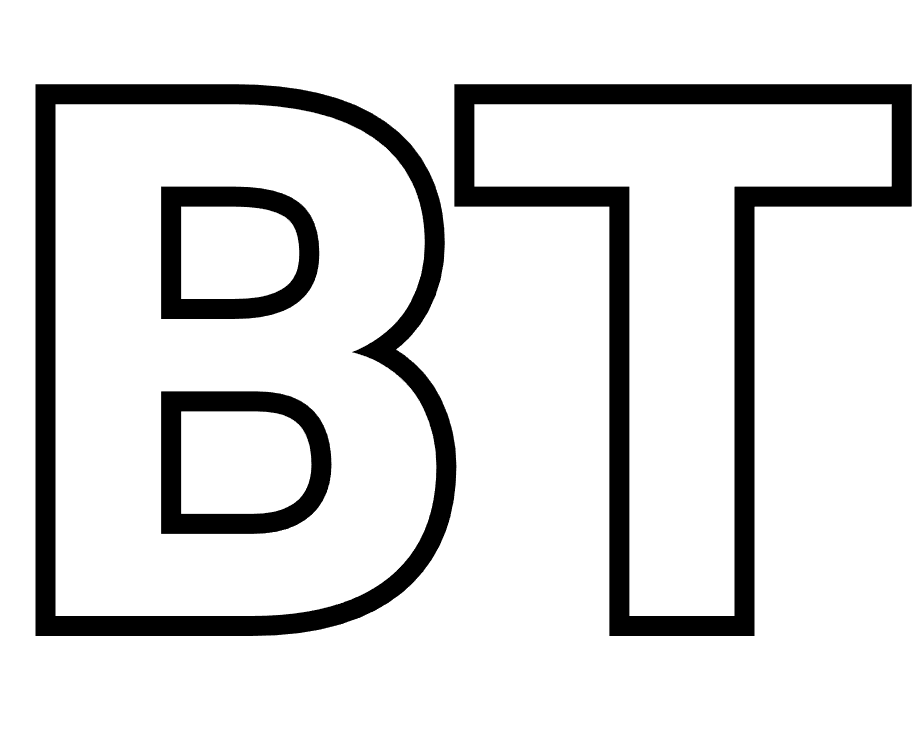
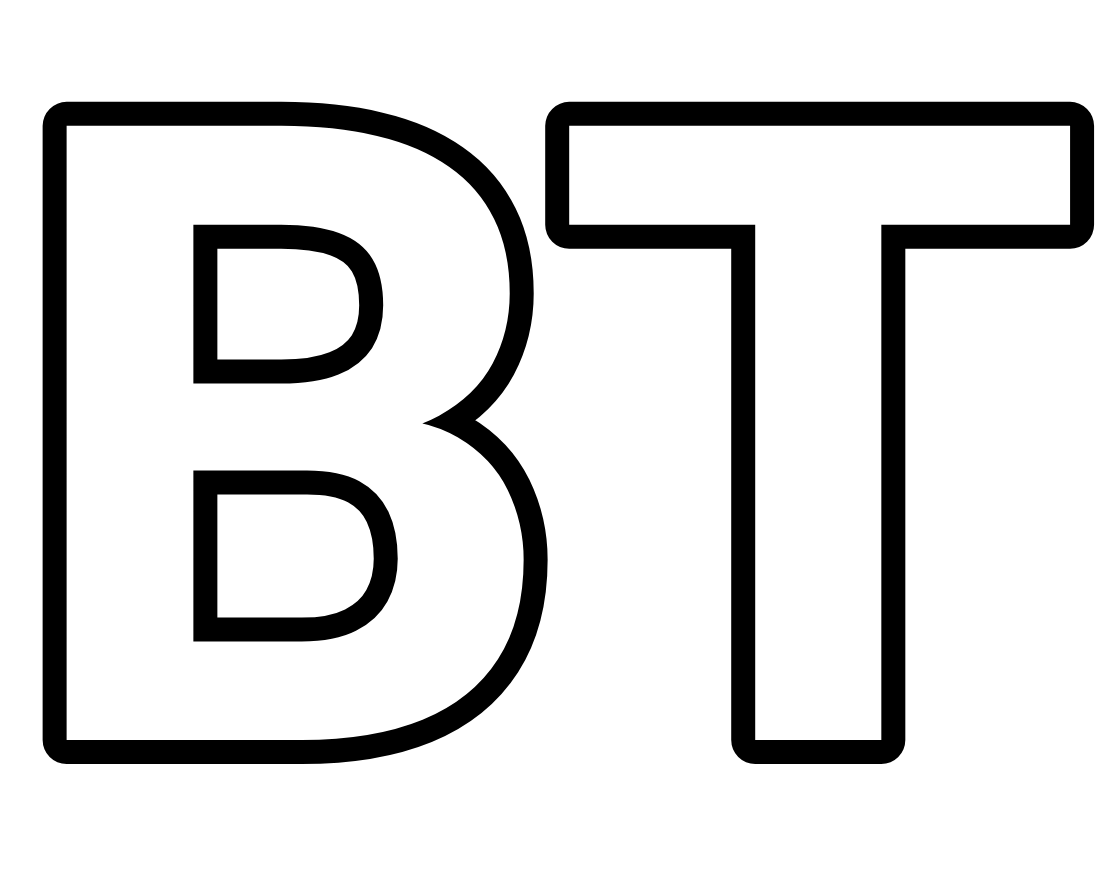
standardize images

diff --git a/src/__util/ImagePaths.ts b/src/__util/ImagePaths.ts
@@ -1,97 +1,96 @@
 import { CharacterNotationImage } from "../__types/commonTypes";
 
 // STANCES
-import aop from "../assets/images/upscaled/stances/aop.webp";
+import aop from "../assets/images/upscaled/stances/aop.png";
 import bad from "../assets/images/upscaled/stances/bad.png";
 import bal from "../assets/images/upscaled/stances/bal.png";
 import bj from "../assets/images/upscaled/stances/bj.png";
-import bkp from "../assets/images/upscaled/stances/bkp.webp";
-import bok from "../assets/images/upscaled/stances/bok.webp";
+import bkp from "../assets/images/upscaled/stances/bkp.png";
+import bok from "../assets/images/upscaled/stances/bok.png";
 import bt from "../assets/images/upscaled/stances/bt.png";
-import bt_old from "../assets/images/upscaled/stances/bt_old.webp";
 import cat from "../assets/images/upscaled/stances/cat.png";
-import cd from "../assets/images/upscaled/stances/cd.webp";
+import cd from "../assets/images/upscaled/stances/cd.png";
 import cjm from "../assets/images/upscaled/stances/cjm.png";
-import dbt from "../assets/images/upscaled/stances/dbt.webp";
-import dck from "../assets/images/upscaled/stances/dck.webp";
-import den from "../assets/images/upscaled/stances/den.webp";
-import des from "../assets/images/upscaled/stances/des.webp";
-import dew from "../assets/images/upscaled/stances/dew.webp";
-import dgf from "../assets/images/upscaled/stances/dgf.webp";
-import dpd from "../assets/images/upscaled/stances/dpd.webp";
-import dss from "../assets/images/upscaled/stances/dss.webp";
-import ext_dck from "../assets/images/upscaled/stances/ext_dck.webp";
-import flea from "../assets/images/upscaled/stances/flea.webp";
-import flk from "../assets/images/upscaled/stances/flk.webp";
-import fly from "../assets/images/upscaled/stances/fly.webp";
+import dbt from "../assets/images/upscaled/stances/dbt.png";
+import dck from "../assets/images/upscaled/stances/dck.png";
+import den from "../assets/images/upscaled/stances/den.png";
+import des from "../assets/images/upscaled/stances/des.png";
+import dew from "../assets/images/upscaled/stances/dew.png";
+import dgf from "../assets/images/upscaled/stances/dgf.png";
+import dpd from "../assets/images/upscaled/stances/dpd.png";
+import dss from "../assets/images/upscaled/stances/dss.png";
+import ext_dck from "../assets/images/upscaled/stances/ext_dck.png";
+import flea from "../assets/images/upscaled/stances/flea.png";
+import flk from "../assets/images/upscaled/stances/flk.png";
+import fly from "../assets/images/upscaled/stances/fly.png";
 import fuj from "../assets/images/upscaled/stances/fuj.png";
 import gar from "../assets/images/upscaled/stances/gar.png";
-import gen from "../assets/images/upscaled/stances/gen.webp";
-import gmc from "../assets/images/upscaled/stances/gmc.webp";
-import gmh from "../assets/images/upscaled/stances/gmh.webp";
-import gs from "../assets/images/upscaled/stances/gs.webp";
+import gen from "../assets/images/upscaled/stances/gen.png";
+import gmc from "../assets/images/upscaled/stances/gmc.png";
+import gmh from "../assets/images/upscaled/stances/gmh.png";
+import gs from "../assets/images/upscaled/stances/gs.png";
 import hae from "../assets/images/upscaled/stances/hae.png";
-import hbs from "../assets/images/upscaled/stances/hbs.webp";
+import hbs from "../assets/images/upscaled/stances/hbs.png";
 import hmc from "../assets/images/upscaled/stances/hmc.png";
-import hms from "../assets/images/upscaled/stances/hms.webp";
-import hrm from "../assets/images/upscaled/stances/hrm.webp";
+import hms from "../assets/images/upscaled/stances/hms.png";
+import hrm from "../assets/images/upscaled/stances/hrm.png";
 import hrs from "../assets/images/upscaled/stances/hrs.png";
-import hsp from "../assets/images/upscaled/stances/hsp.webp";
-import hyp from "../assets/images/upscaled/stances/hyp.webp";
-import iai from "../assets/images/upscaled/stances/iai.webp";
-import ind from "../assets/images/upscaled/stances/ind.webp";
-import isw from "../assets/images/upscaled/stances/isw.webp";
-import izu from "../assets/images/upscaled/stances/izu.webp";
-import jag from "../assets/images/upscaled/stances/jag.webp";
-import jgs from "../assets/images/upscaled/stances/jgs.webp";
+import hsp from "../assets/images/upscaled/stances/hsp.png";
+import hyp from "../assets/images/upscaled/stances/hyp.png";
+import iai from "../assets/images/upscaled/stances/iai.png";
+import ind from "../assets/images/upscaled/stances/ind.png";
+import isw from "../assets/images/upscaled/stances/isw.png";
+import izu from "../assets/images/upscaled/stances/izu.png";
+import jag from "../assets/images/upscaled/stances/jag.png";
+import jgs from "../assets/images/upscaled/stances/jgs.png";
 import kat from "../assets/images/upscaled/stances/kat.png";
-import kin from "../assets/images/upscaled/stances/kin.webp";
+import kin from "../assets/images/upscaled/stances/kin.png";
 import kmh from "../assets/images/upscaled/stances/kmh.png";
-import knk from "../assets/images/upscaled/stances/knk.webp";
-import len from "../assets/images/upscaled/stances/len.webp";
-import lff from "../assets/images/upscaled/stances/lff.webp";
-import lfs from "../assets/images/upscaled/stances/lfs.webp";
-import lib from "../assets/images/upscaled/stances/lib.webp";
-import lnh from "../assets/images/upscaled/stances/lnh.webp";
-import mcr from "../assets/images/upscaled/stances/mcr.webp";
-import med from "../assets/images/upscaled/stances/med.webp";
-import mia from "../assets/images/upscaled/stances/mia.webp";
+import knk from "../assets/images/upscaled/stances/knk.png";
+import len from "../assets/images/upscaled/stances/len.png";
+import lff from "../assets/images/upscaled/stances/lff.png";
+import lfs from "../assets/images/upscaled/stances/lfs.png";
+import lib from "../assets/images/upscaled/stances/lib.png";
+import lnh from "../assets/images/upscaled/stances/lnh.png";
+import mcr from "../assets/images/upscaled/stances/mcr.png";
+import med from "../assets/images/upscaled/stances/med.png";
+import mia from "../assets/images/upscaled/stances/mia.png";
 import mmo from "../assets/images/upscaled/stances/mmo.png";
-import mnt from "../assets/images/upscaled/stances/mnt.webp";
-import nss from "../assets/images/upscaled/stances/nss.webp";
-import nwg from "../assets/images/upscaled/stances/nwg.webp";
-import pab from "../assets/images/upscaled/stances/pab.webp";
+import mnt from "../assets/images/upscaled/stances/mnt.png";
+import nss from "../assets/images/upscaled/stances/nss.png";
+import nwg from "../assets/images/upscaled/stances/nwg.png";
+import pab from "../assets/images/upscaled/stances/pab.png";
 import phx from "../assets/images/upscaled/stances/phx.png";
 import plt from "../assets/images/upscaled/stances/plt.png";
-import prf from "../assets/images/upscaled/stances/prf.webp";
-import rab from "../assets/images/upscaled/stances/rab.webp";
+import prf from "../assets/images/upscaled/stances/prf.png";
+import rab from "../assets/images/upscaled/stances/rab.png";
 import rai from "../assets/images/upscaled/stances/rai.png";
 import ram from "../assets/images/upscaled/stances/ram.png";
-import rds from "../assets/images/upscaled/stances/rds.webp";
-import rff from "../assets/images/upscaled/stances/rff.webp";
-import rfs from "../assets/images/upscaled/stances/rfs.webp";
-import rlx from "../assets/images/upscaled/stances/rlx.webp";
-import roll from "../assets/images/upscaled/stances/roll.webp";
-import sbt from "../assets/images/upscaled/stances/sbt.webp";
-import scr from "../assets/images/upscaled/stances/scr.webp";
-import sen from "../assets/images/upscaled/stances/sen.webp";
+import rds from "../assets/images/upscaled/stances/rds.png";
+import rff from "../assets/images/upscaled/stances/rff.png";
+import rfs from "../assets/images/upscaled/stances/rfs.png";
+import rlx from "../assets/images/upscaled/stances/rlx.png";
+import rol from "../assets/images/upscaled/stances/rol.png";
+import sbt from "../assets/images/upscaled/stances/sbt.png";
+import scr from "../assets/images/upscaled/stances/scr.png";
+import sen from "../assets/images/upscaled/stances/sen.png";
 import set from "../assets/images/upscaled/stances/set.png";
-import sit from "../assets/images/upscaled/stances/sit.webp";
-import sne from "../assets/images/upscaled/stances/sne.webp";
-import snk from "../assets/images/upscaled/stances/snk.webp";
-import stb from "../assets/images/upscaled/stances/stb.webp";
-import stc from "../assets/images/upscaled/stances/stc.webp";
-import swa from "../assets/images/upscaled/stances/swa.webp";
-import swy from "../assets/images/upscaled/stances/swy.webp";
-import szn from "../assets/images/upscaled/stances/szn.webp";
+import sit from "../assets/images/upscaled/stances/sit.png";
+import sne from "../assets/images/upscaled/stances/sne.png";
+import snk from "../assets/images/upscaled/stances/snk.png";
+import stb from "../assets/images/upscaled/stances/stb.png";
+import stc from "../assets/images/upscaled/stances/stc.png";
+import swa from "../assets/images/upscaled/stances/swa.png";
+import swy from "../assets/images/upscaled/stances/swy.png";
+import szn from "../assets/images/upscaled/stances/szn.png";
 import tgk from "../assets/images/upscaled/stances/tgk.png";
-import trt from "../assets/images/upscaled/stances/trt.webp";
-import uns from "../assets/images/upscaled/stances/uns.webp";
+import trt from "../assets/images/upscaled/stances/trt.png";
+import uns from "../assets/images/upscaled/stances/uns.png";
 import wgk from "../assets/images/upscaled/stances/wgk.png";
 import wlf from "../assets/images/upscaled/stances/wlf.png";
 import wol from "../assets/images/upscaled/stances/wol.png";
-import wra from "../assets/images/upscaled/stances/wra.webp";
-import zen from "../assets/images/upscaled/stances/zen.webp";
+import wra from "../assets/images/upscaled/stances/wra.png";
+import zen from "../assets/images/upscaled/stances/zen.png";
 
 export const CharacterSpecificImagePaths: CharacterNotationImage = {
   alisa: {
@@ -149,7 +148,7 @@ export const CharacterSpecificImagePaths: CharacterNotationImage = {
     },
     bt: {
       text: "BT",
-      src: bt_old,
+      src: bt,
     },
   },
   bob: {
@@ -251,7 +250,7 @@ export const CharacterSpecificImagePaths: CharacterNotationImage = {
     },
     bt: {
       text: "BT",
-      src: bt_old,
+      src: bt,
     },
   },
   heihachi: {
@@ -361,9 +360,9 @@ export const CharacterSpecificImagePaths: CharacterNotationImage = {
       text: "SIT",
       src: sit,
     },
-    roll: {
-      text: "ROLL",
-      src: roll,
+    rol: {
+      text: "ROL",
+      src: rol,
     },
   },
   kunimitsu: {
@@ -451,7 +450,7 @@ export const CharacterSpecificImagePaths: CharacterNotationImage = {
     },
     bt: {
       text: "BT",
-      src: bt_old,
+      src: bt,
     },
   },
   miary: {
@@ -483,9 +482,9 @@ export const CharacterSpecificImagePaths: CharacterNotationImage = {
       text: "SIT",
       src: sit,
     },
-    roll: {
-      text: "ROLL",
-      src: roll,
+    rol: {
+      text: "ROL",
+      src: rol,
     },
   },
   paul: {
@@ -505,7 +504,7 @@ export const CharacterSpecificImagePaths: CharacterNotationImage = {
     },
     bt: {
       text: "BT",
-      src: bt_old,
+      src: bt,
     },
   },
   reina: {
@@ -589,7 +588,7 @@ export const CharacterSpecificImagePaths: CharacterNotationImage = {
     },
     bt: {
       text: "BT",
-      src: bt_old,
+      src: bt,
     },
     kin: {
       text: "KIN",
